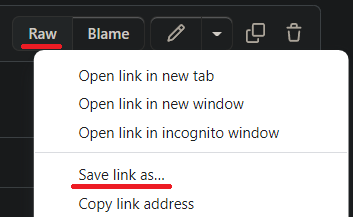
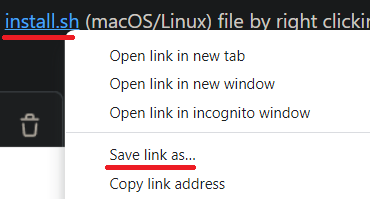
Slightly improved installation process

diff --git a/README.md b/README.md
@@ -9,7 +9,7 @@
 
 Install [python 3.10](https://www.python.org/downloads/release/python-3100/)
 
-Download the [install.bat](https://github.com/farrael004/Quest/blob/main/install.bat) (Windows) or [install.sh](https://github.com/farrael004/Quest/blob/main/install.sh) (macOS/Linux) file by right clicking the ```Raw``` button and 'Save link As...'.
+Download the [install.bat](https://github.com/farrael004/Quest/blob/main/install.bat) (Windows) or [install.sh](https://github.com/farrael004/Quest/blob/main/install.sh) (macOS/Linux) file by right clicking the link and selecting 'Save link As...'.
 
 ![Installing1](tutorial/Installing1.png)
 
